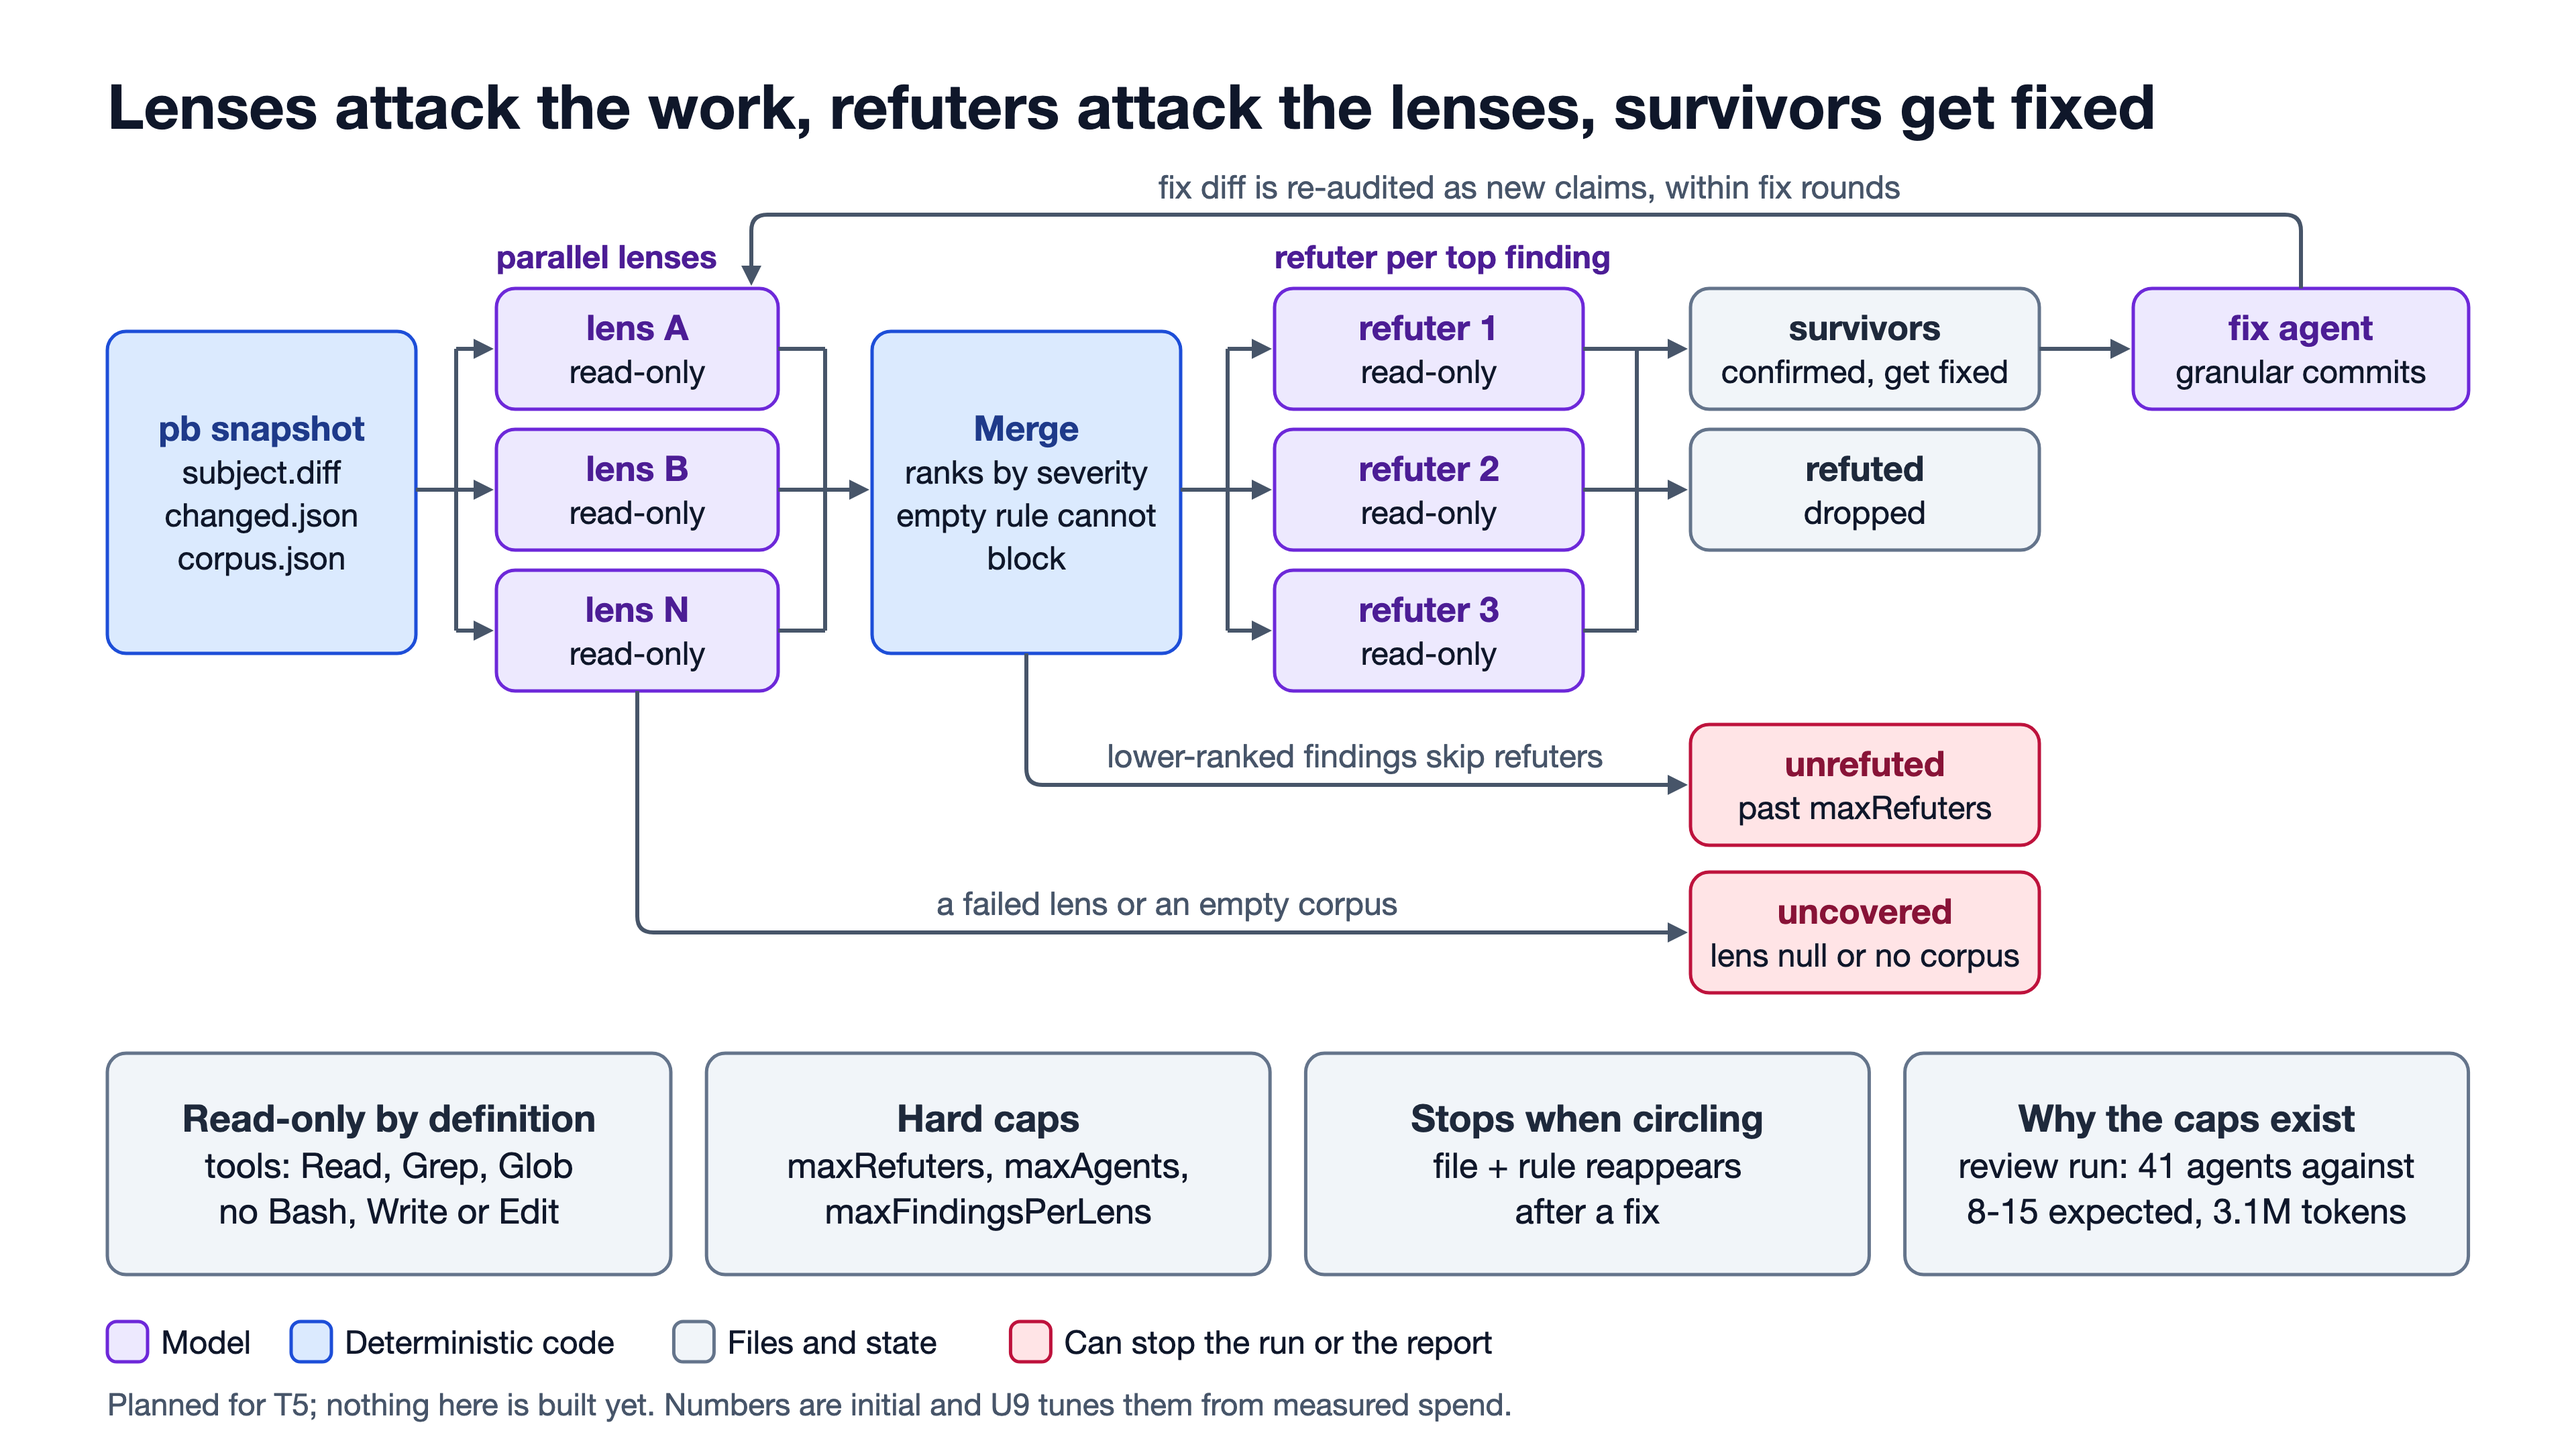
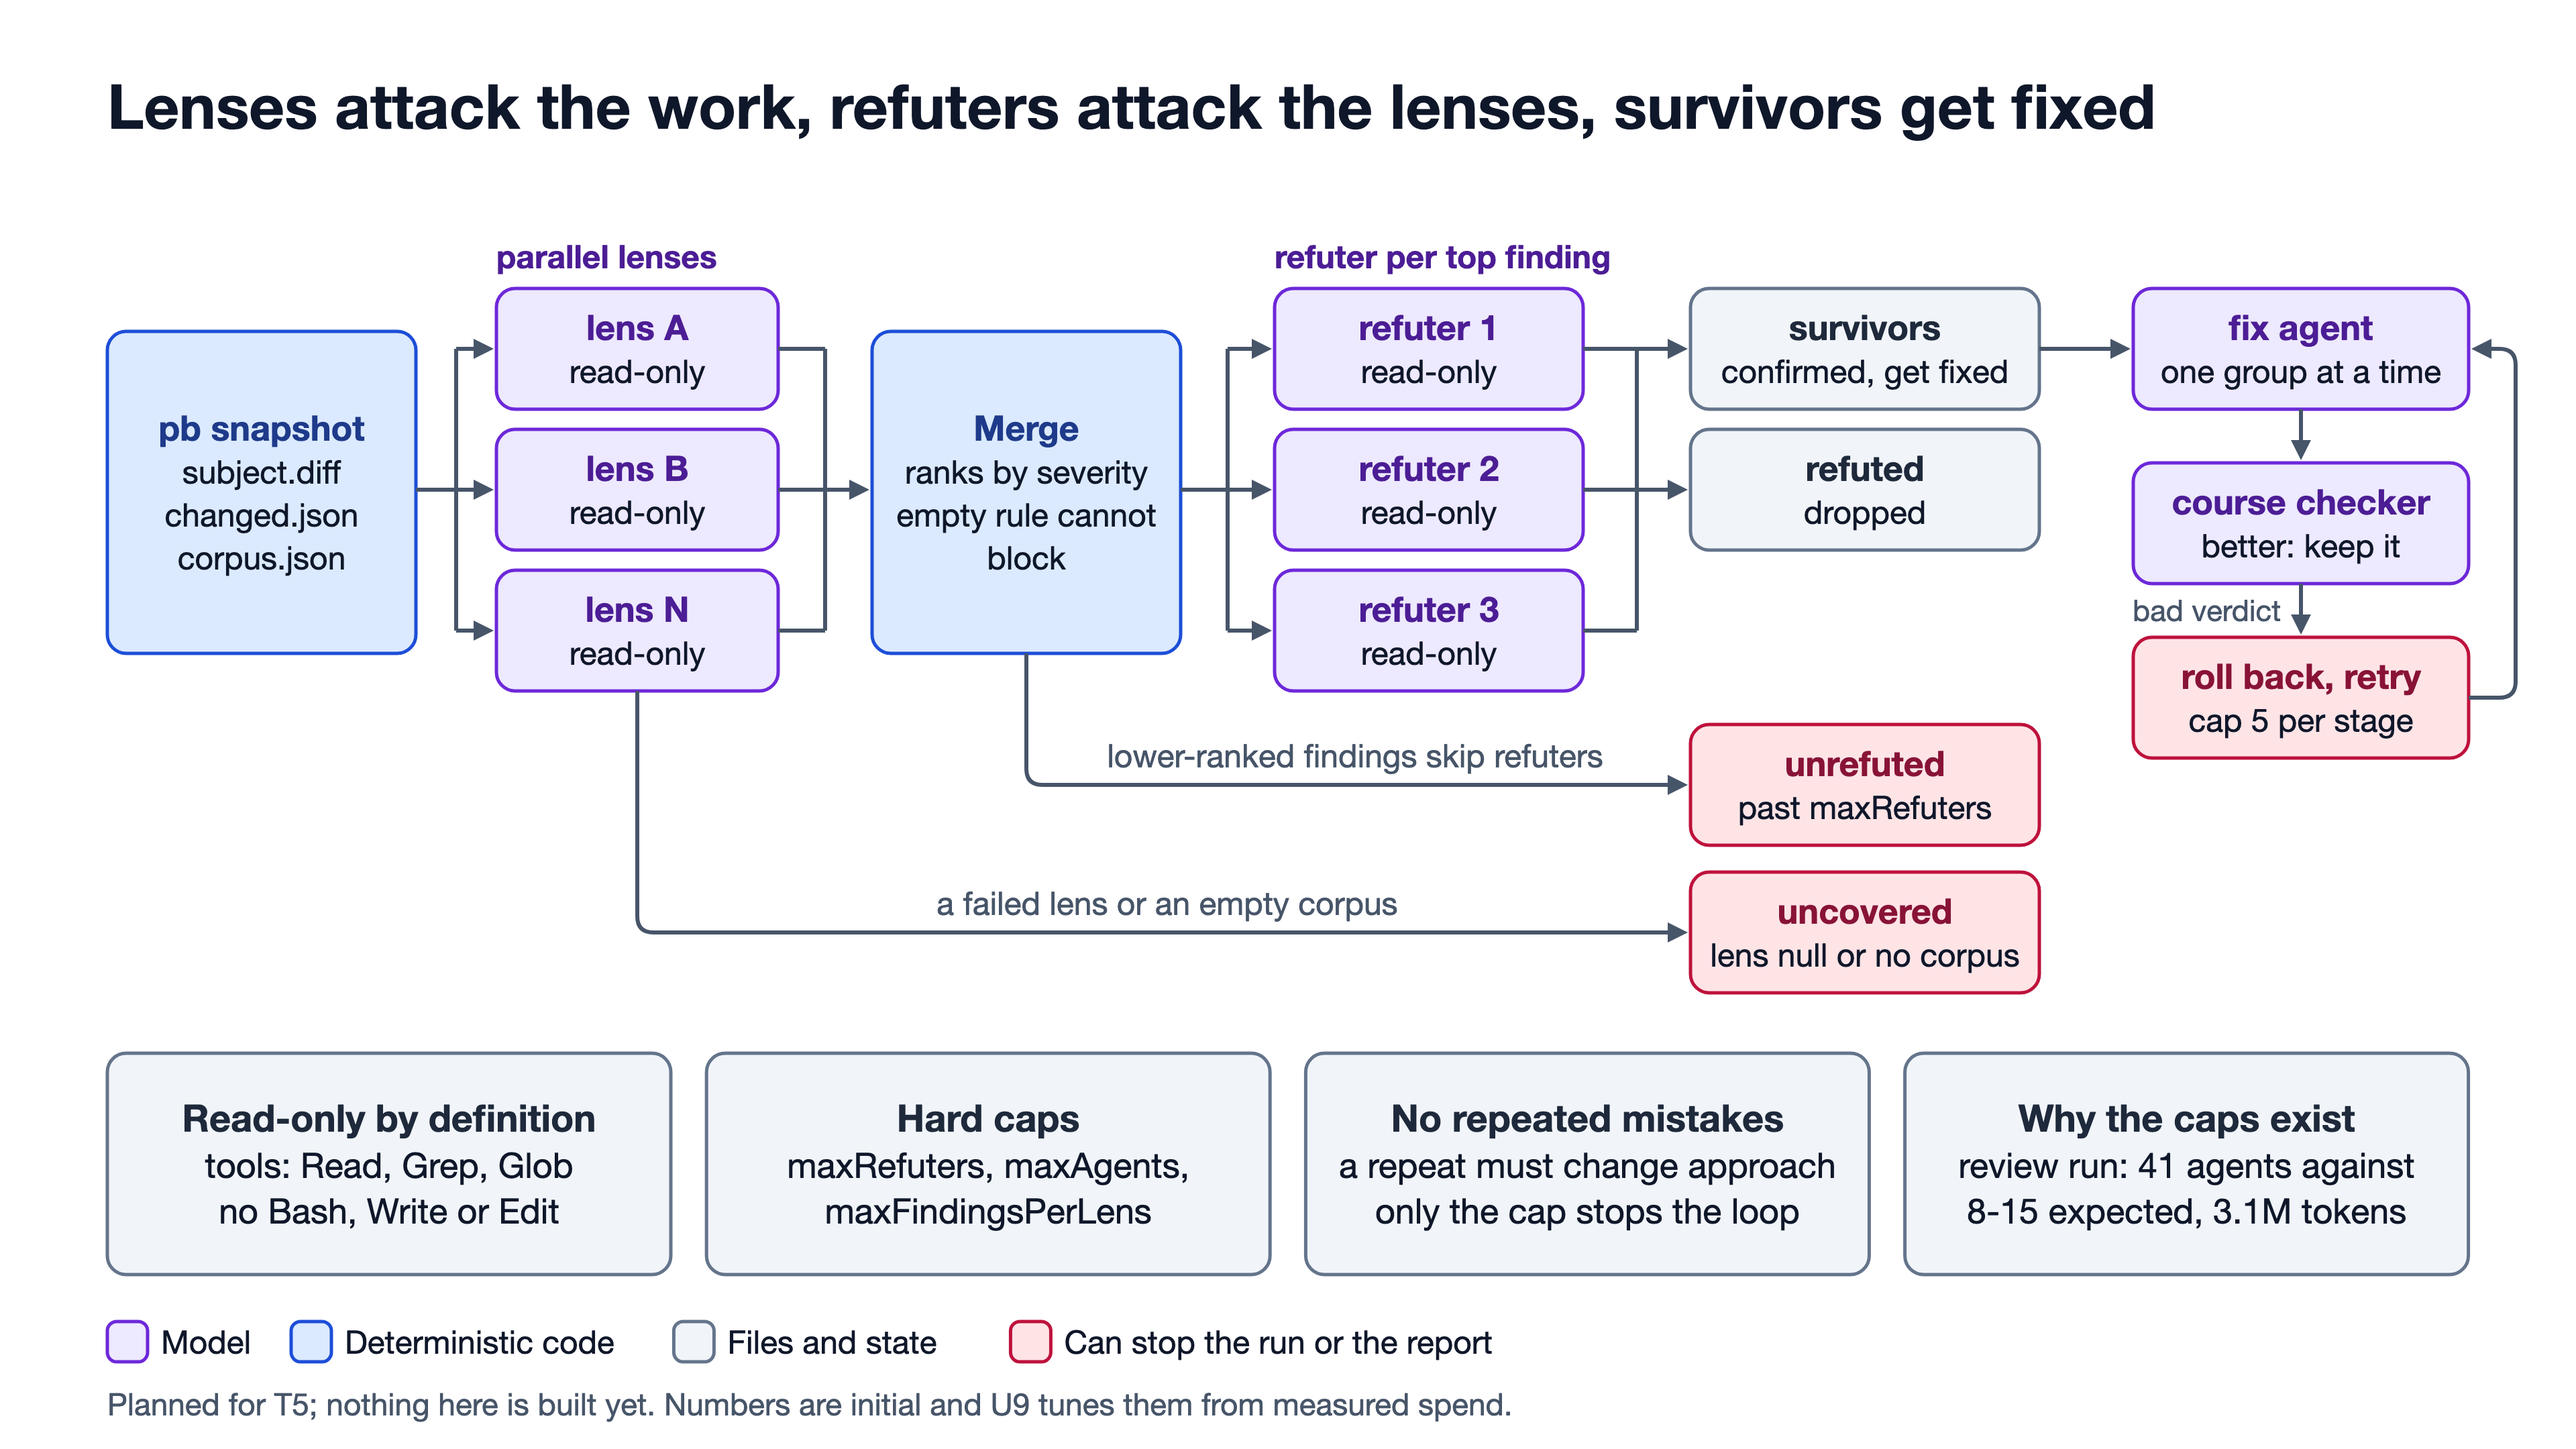
docs: redraw the lens-attack diagram with the checked fix loop
The label and loop arrow now say the fix diff is re-audited as new
claims are gone. The right column shows the fix agent taking one
group at a time, the course checker keeping a better fix, and a bad
verdict rolling back and retrying, with a cap of 5 per stage. The
"stops when circling" box now says a repeated mistake must change
approach, and only the cap stops the loop.

The PNG is re-rendered from the SVG at the same 3840x2160 size.

diff --git a/CHANGELOG.md b/CHANGELOG.md
@@ -48,6 +48,7 @@ and this project adheres to [Semantic Versioning](https://semver.org/spec/v2.0.0
 
 ### Changed
 
+- The lens-attack diagram (`docs/diagrams/05-lens-attack`) shows the course-checked fix loop instead of re-auditing the fix diff: the fix agent takes one group at a time, the course checker keeps a better fix, a bad verdict rolls back and retries (cap 5 per stage), and a repeated mistake must change approach.
 - The refuter verdict now carries `ambiguity`, like every other return.
 - `/code` on the new path opens a unit first (`pb unit open --type feat|fix|refactor|chore --slug`). The model runs only the command a refusal prints for it, and the human confirms the branch otherwise. An open, empty unit on its branch is resumed.
 - After `pb task end`, `/code` opens a publish run (`pb run open --kind publish`, refused unless every unit task has a record, no task run is open and no publish run exists) and follows `pb status --action` through `pr-draft` and `G:publish`. On approval or nothing to publish it runs `pb publish` and reports url, warnings and `pendingComment`.
